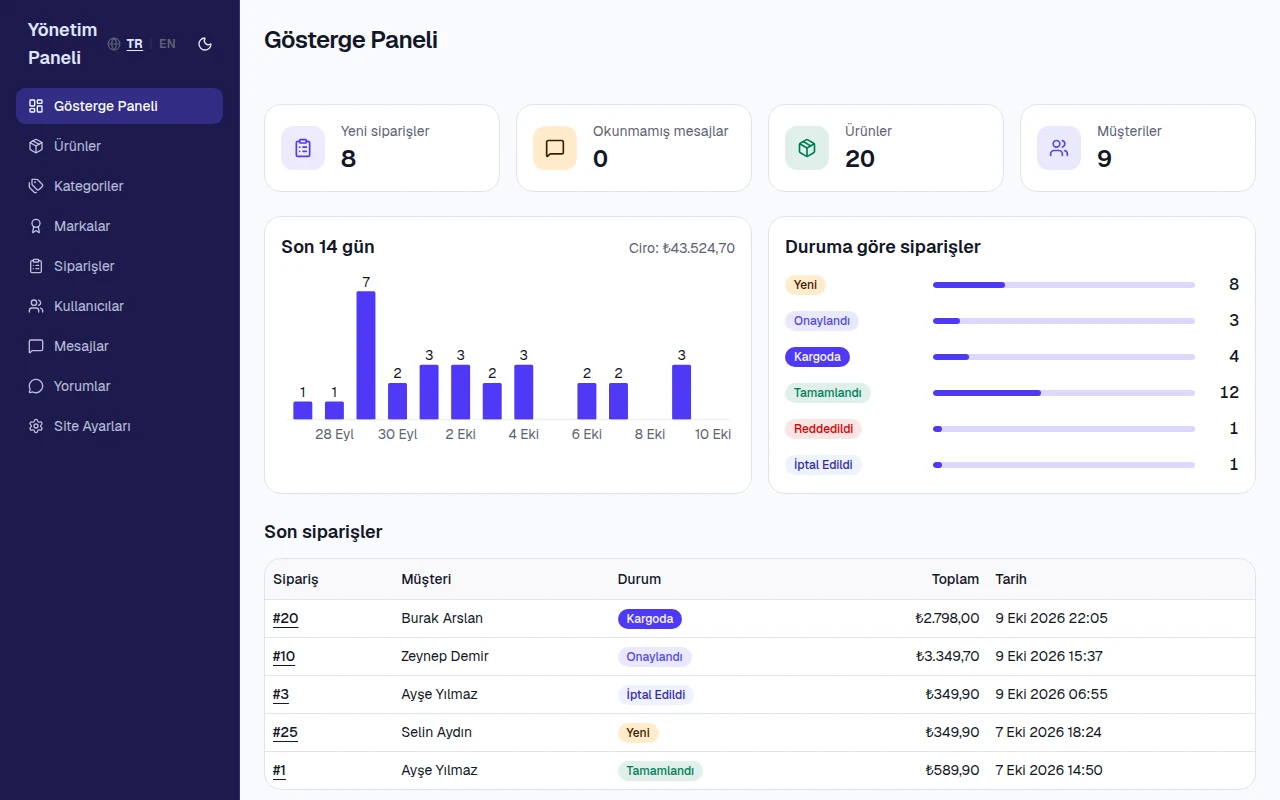
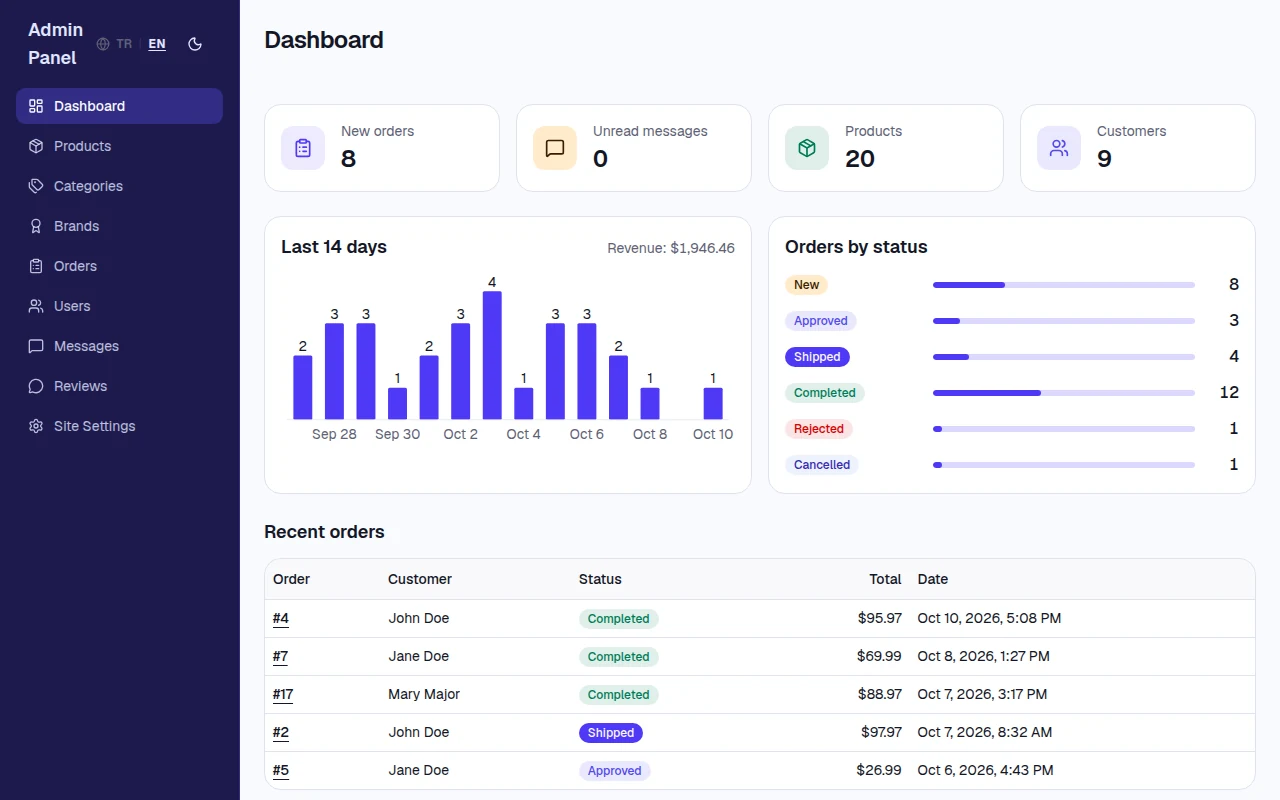
docs: README and pictures for the English default
The README says that the screen starts in English, names CURRENCY and scripts/db.sh reset, and
the two pictures show the English screen with English sample data.

diff --git a/README.md b/README.md
@@ -26,8 +26,8 @@ clone it, run it, make it your own shop. The original code is still in the git h
   printable invoices.
 - **Admin panel:** dashboard with a 14-day chart, products and images (resized on upload),
   categories, brands, orders with status rules, customers, messages, comments, site settings.
-- **Turkish and English** with an instant switch, **light and dark mode**, and a **markdown editor**
-  for product and page texts.
+- **English by default, with Turkish one click away**, **light and dark mode**, and a
+  **markdown editor** for product and page texts.
 - **Safe by default:** Argon2 passwords, JWT sessions that end after a password change, admin rights
   checked on the server for every route, and tests that walk all of them.
 - **Not included:** payments, e-mail sending, password reset and anonymous comments.
@@ -66,8 +66,9 @@ Edit `backend/.env` before `scripts/db.sh init`: set `SECRET_KEY` (`openssl rand
 Open <http://localhost:5173> and log in with `ADMIN_EMAIL` and `ADMIN_PASSWORD` to reach the admin
 panel. The API documentation is at <http://localhost:8000/api/docs> (on while `API_DOCS_ENABLED=true`,
 as in `backend/.env.example`). Without `conda activate`, put `conda run -n ecommerce` in front of a
-command. `scripts/db.sh stop`, `start` and `status` control the database server. Something does not
-work? See "Common errors" below.
+command. `scripts/db.sh stop`, `start` and `status` control the database server; `scripts/db.sh reset`
+empties the database, so that you can migrate and seed again. Something does not work? See
+"Common errors" below.
 
 ## Tests
 
@@ -85,12 +86,14 @@ use the database `ecommerce_test_main` and leave the development database alone.
 ## Make it yours
 
 1. The shop identity: the site settings in the admin panel, or `SITE_SETTINGS` in `backend/seed.py`.
-2. The sample catalogue: `CATEGORIES`, `BRANDS` and `PRODUCTS` in `backend/seed.py`.
-3. The texts: `frontend/src/locales/tr/*.json` and `frontend/src/locales/en/*.json`.
-4. The session length: `ACCESS_TOKEN_MINUTES` in `backend/.env`.
-5. A new backend feature: a migration (`backend/migrations/0002_price_alerts.sql`), then a repository
+2. The sample catalogue: `CATEGORIES`, `BRANDS` and `PRODUCTS` in `backend/seed.py`. Start the sample
+   data again: `scripts/db.sh reset`, then migrate and seed.
+3. The currency: `CURRENCY` in `frontend/src/lib/format.ts`.
+4. The texts: `frontend/src/locales/tr/*.json` and `frontend/src/locales/en/*.json`.
+5. The session length: `ACCESS_TOKEN_MINUTES` in `backend/.env`.
+6. A new backend feature: a migration (`backend/migrations/0002_price_alerts.sql`), then a repository
    function, a service if there are business rules, a router, a schema and a test in `backend/tests/api/`.
-6. A new page: a file in `frontend/src/features/` and a route in `frontend/src/app/routes.tsx`.
+7. A new page: a file in `frontend/src/features/` and a route in `frontend/src/app/routes.tsx`.
 
 ## License
 
@@ -130,7 +133,7 @@ frontend/
     layouts/          store, account and admin layouts
     locales/          Turkish and English UI texts (tr/ and en/)
 screenshots/         the two pictures of this README
-scripts/db.sh        starts, stops and inspects the local PostgreSQL server
+scripts/db.sh        starts, stops and inspects the local PostgreSQL server, and resets the database
 scripts/e2e.sh       runs Playwright end-to-end tests against an isolated stack
 compose.yml          three containers: database, API, web server (not tested yet)
 ```
@@ -183,8 +186,8 @@ authenticated request loads the user from the database, so the role comes from t
 from the token, and an inactive user is refused at once.
 
 Prices are stored as `NUMERIC(12,2)` and returned as strings with two decimals (`"1299.90"`). The
-currency is fixed to TRY and the frontend formats the amounts. `cost_price` is returned only by admin
-endpoints; public product reads never select it.
+currency is USD (`CURRENCY` in `frontend/src/lib/format.ts`) and the frontend formats the amounts.
+`cost_price` is returned only by admin endpoints; public product reads never select it.
 
 ### Design decisions
 
